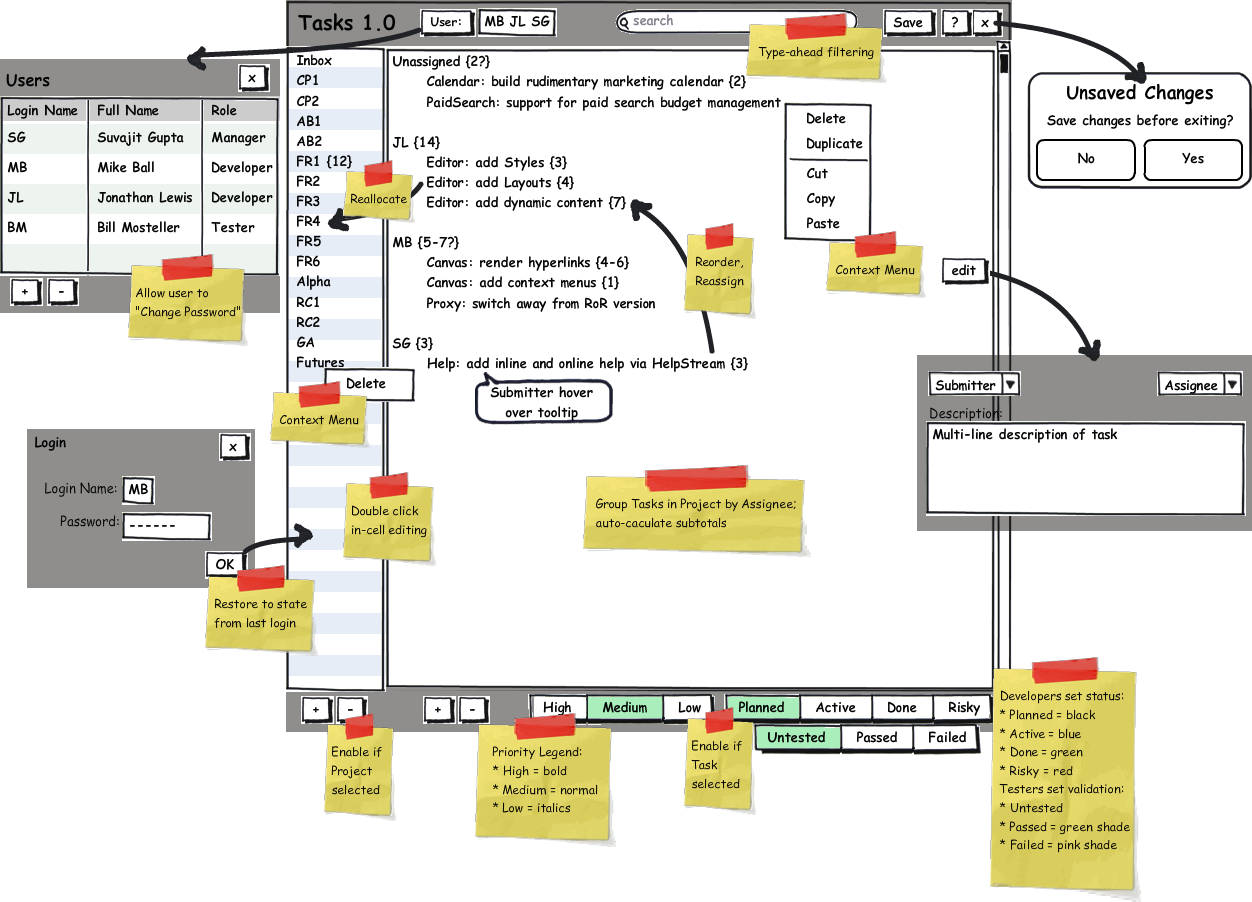
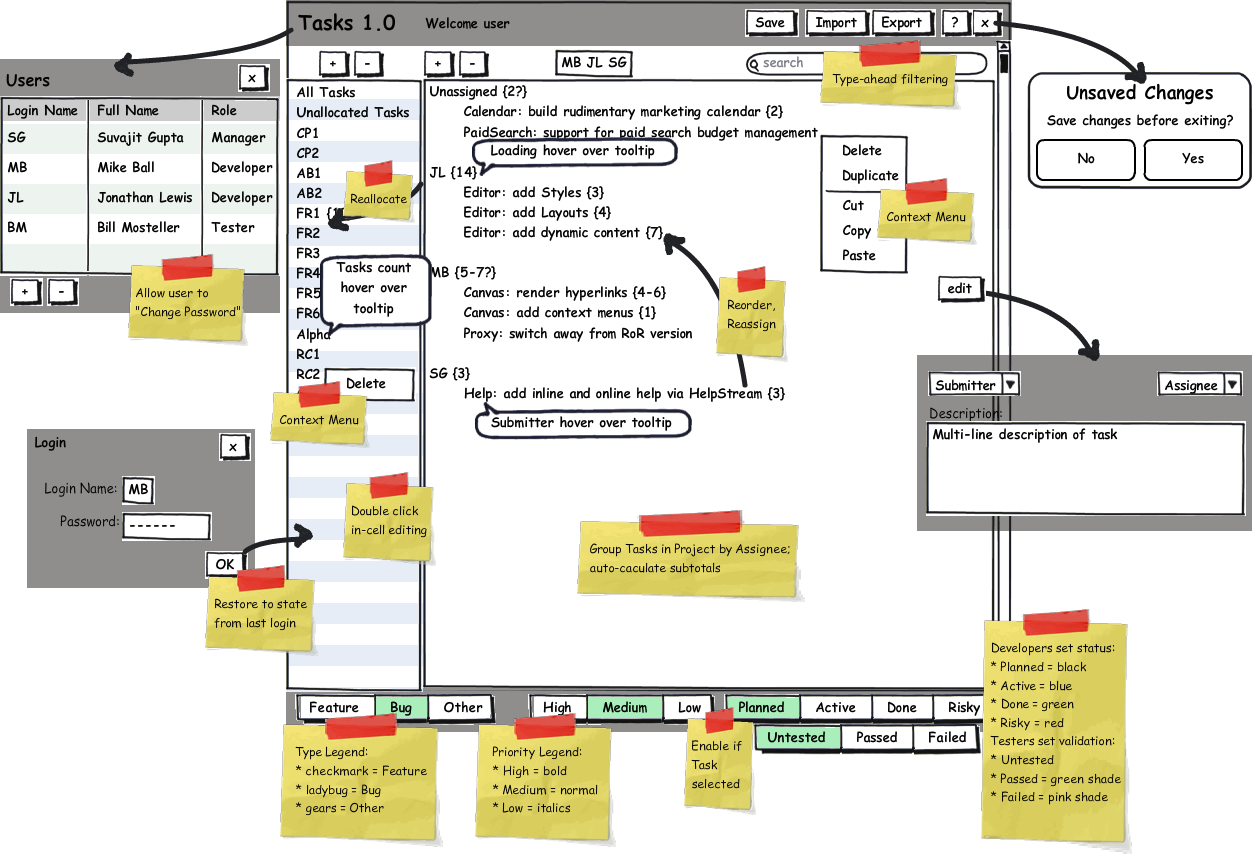
renamed Inbox to UnallocatedTasks

diff --git a/apps/tasks/core_actions.js b/apps/tasks/core_actions.js
@@ -179,17 +179,17 @@ Tasks.mixin({
       }
     }
 
-    // Create the Inbox project with the unallocated tasks.
-    var inboxProject = CoreTasks.createRecord(CoreTasks.Project, {
+    // Create the UnallocatedTasks project with the unallocated tasks.
+    var unallocatedTasksProject = CoreTasks.createRecord(CoreTasks.Project, {
       id: 0,
-      name: CoreTasks.INBOX_NAME
+      name: CoreTasks.UNALLOCATED_TASKS_NAME
     });
 
-    inboxProject.set('tasks', unallocated);
-    CoreTasks.set('inbox', inboxProject);
+    unallocatedTasksProject.set('tasks', unallocated);
+    CoreTasks.set('unallocatedTasks', unallocatedTasksProject);
 
-    // Add AllTasks and Inbox projects to the top of the list of projects
-    projects.unshiftObject(inboxProject);
+    // Add AllTasks and UnallocatedTasks projects to the top of the list of projects
+    projects.unshiftObject(unallocatedTasksProject);
     projects.unshiftObject(allTasksProject);
 
     // Set the contnent of the projects controller.
@@ -230,15 +230,14 @@ Tasks.mixin({
   saveData: function() {
     var store = CoreTasks.get('store');
 
-    // Remove the store keys of the Inbox and AllTasks projects from the changelog so that they're not
+    // Remove the store keys of the AllTasks & UnallocatedTasks projects from the changelog so that they're not
     // persisted to the server.
-    var inboxKey = CoreTasks.getPath('inbox.storeKey');
     var allTasksKey = CoreTasks.getPath('allTasks.storeKey');
+    var unallocatedTasksKey = CoreTasks.getPath('unallocatedTasks.storeKey');
     var cl = store.changelog;
-
     if (cl) {
-      if (cl.contains(inboxKey)) cl.remove(inboxKey);
       if (cl.contains(allTasksKey)) cl.remove(allTasksKey);
+      if (cl.contains(unallocatedTasksKey)) cl.remove(unallocatedTasksKey);
     }
 
     // Now commit all dirty records to the database.
@@ -342,11 +341,11 @@ Tasks.mixin({
         if(!confirm("This project has tasks, are you sure you want to delete it?")) return;
       }
 
-      // Move all tasks in project to Inbox since they are now unallocated
-      var inboxProject = CoreTasks.get('inbox');
+      // Move all tasks in project to UnallocatedTasks project since they are now orphaned
+      var unallocatedTasksProject = CoreTasks.get('unallocatedTasks');
       for (var i = 0; i < taskCount; i++) {
         var task = projectTasks.objectAt(i);
-        inboxProject.addTask(task);
+        unallocatedTasksProject.addTask(task);
       }
 
       // Remove the project from the list and destroy.

diff --git a/apps/tasks/english.lproj/help.html b/apps/tasks/english.lproj/help.html
@@ -23,7 +23,7 @@
 		<p>To begin, click on "Add Project" to create your project and type in a name for it.  When you select a project in the list it shows its tasks on the right side.  You can remove a selected project by clicking on the "Del. Project" button.</p>
 		<p>Click "Add Task" to create your tasks.  Type in the task descriptions and periodically save your work.</p>
 		<pre>
-		^ Add virtual Inbox & AllTasks to group all unallocated & all tasks respectively [SG] <SE> @Done
+			^ Add virtual "All Tasks" & "Unallocated Tasks" projects to group all & unallocated tasks respectively [SG] <SE> @Done
 		- Allow Tasks under a User to be hidden/shown [SG] <JH2> @Done
 		- Show type via different icons [SG] <JH2> @Done
 		- Show priority (font style), status (font color), validation (background color) [SG] <MB> @Done

diff --git a/frameworks/core-tasks/core.js b/frameworks/core-tasks/core.js
@@ -33,18 +33,18 @@ CoreTasks = SC.Object.create({
   loginTime: null,
 
   /**
-   * A special 'inbox' project where all unallocated tasks are grouped.
-   *
-   * This project exists outside of the store because we don't want it to be persisted.
-   */
-  inbox: null,
-
-  /**
    * A special 'allTasks' project where all tasks for all projects are grouped.
    *
    * This project exists outside of the store because we don't want it to be persisted.
    */
   allTasks: null,
+
+  /**
+   * A special 'unallocatedTasks' project where all unallocated tasks are grouped.
+   *
+   * This project exists outside of the store because we don't want it to be persisted.
+   */
+  unallocatedTasks: null,
 
   /**
    * Creates a new record in the store.

diff --git a/apps/tasks/controllers/projects.js b/apps/tasks/controllers/projects.js
@@ -18,7 +18,7 @@ Tasks.projectsController = SC.ArrayController.create(
     var selectedProject = sel.firstObject();
     if(!selectedProject) return false;
     var selectedProjectName = selectedProject.get('name');
-    if (selectedProjectName === CoreTasks.INBOX_NAME || selectedProjectName === CoreTasks.ALL_TASKS_NAME) {
+    if (selectedProjectName === CoreTasks.ALL_TASKS_NAME || selectedProjectName === CoreTasks.UNALLOCATED_TASKS_NAME) {
       return false;
     }
     return this.hasSelection();

diff --git a/apps/tasks/controllers/export_data.js b/apps/tasks/controllers/export_data.js
@@ -41,7 +41,7 @@ Tasks.exportDataController = SC.ObjectController.create(
       if (rec.get('name') === CoreTasks.ALL_TASKS_NAME) return;
       var tasks = rec.get('tasks');
       var len = tasks.get('length');
-      if(rec.get('name') !== CoreTasks.INBOX_NAME) {
+      if(rec.get('name') !== CoreTasks.UNALLOCATED_TASKS_NAME) {
         data += rec.get('displayName') + '\n';
       }
       for (var i = 0; i < len; i++) {

diff --git a/apps/tasks/controllers/import_data.js b/apps/tasks/controllers/import_data.js
@@ -46,7 +46,7 @@ Tasks.importDataController = SC.ObjectController.create(
       this.projectTaskMappings = {};
       var lines = data.split('\n');
       var store = CoreTasks.get('store');
-      var currentProject = CoreTasks.get('inbox');
+      var currentProject = CoreTasks.get('unallocatedTasks');
 
       for (var i = 0; i < lines.length; i++) {
 

diff --git a/apps/tasks/english.lproj/strings.js b/apps/tasks/english.lproj/strings.js
@@ -43,7 +43,7 @@ SC.stringsFor('English', {
   '_DelProjectTooltip': "Delete selected project",
   '_NewProject': "New Project",
   '_AllTasks': "All Tasks",
-  '_Inbox': "Inbox",
+  '_UnallocatedTasks': "Unallocated Tasks",
   '_Tasks': " task(s)",
   
   // Task strings

diff --git a/frameworks/core-tasks/models/project.js b/frameworks/core-tasks/models/project.js
@@ -3,8 +3,8 @@
 sc_require('models/record');
 
 CoreTasks.NEW_PROJECT_NAME = '_NewProject';
-CoreTasks.INBOX_NAME = '_Inbox';
 CoreTasks.ALL_TASKS_NAME = '_AllTasks';
+CoreTasks.UNALLOCATED_TASKS_NAME = '_UnallocatedTasks';
 
 /**
  * The project model.
